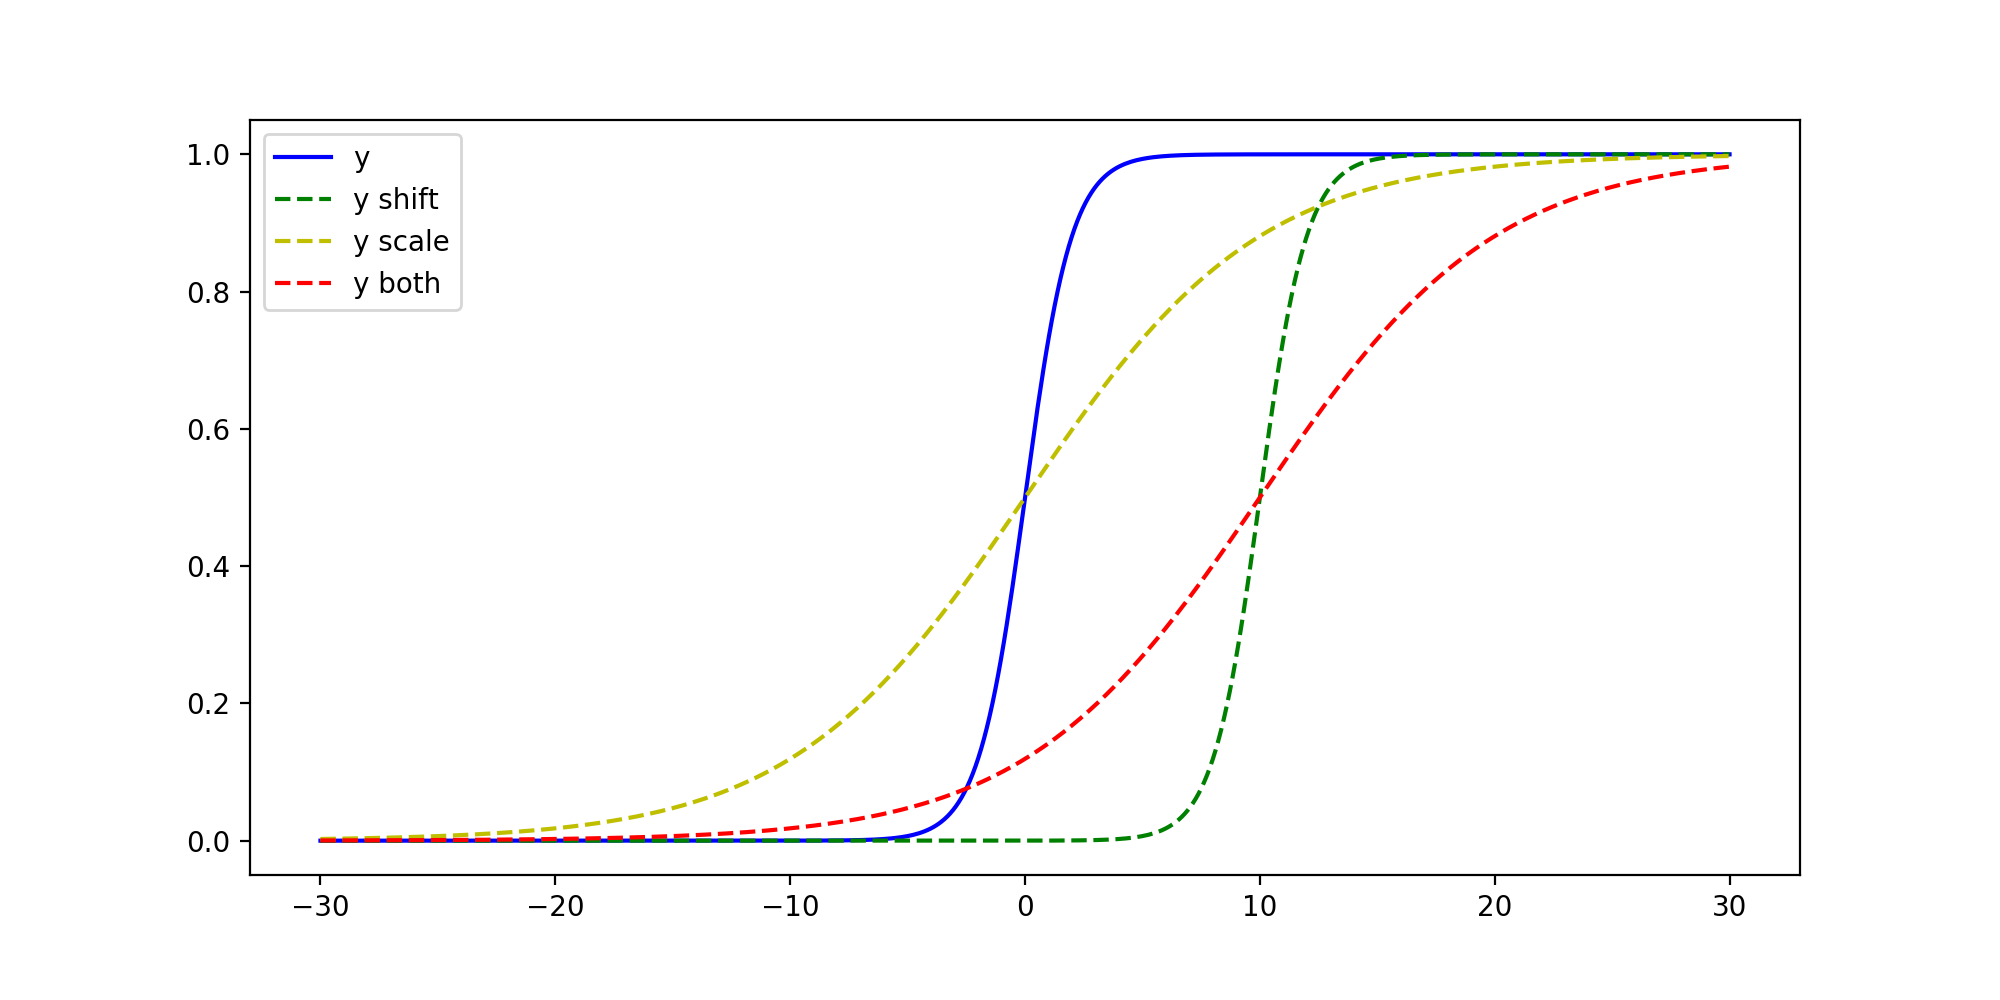
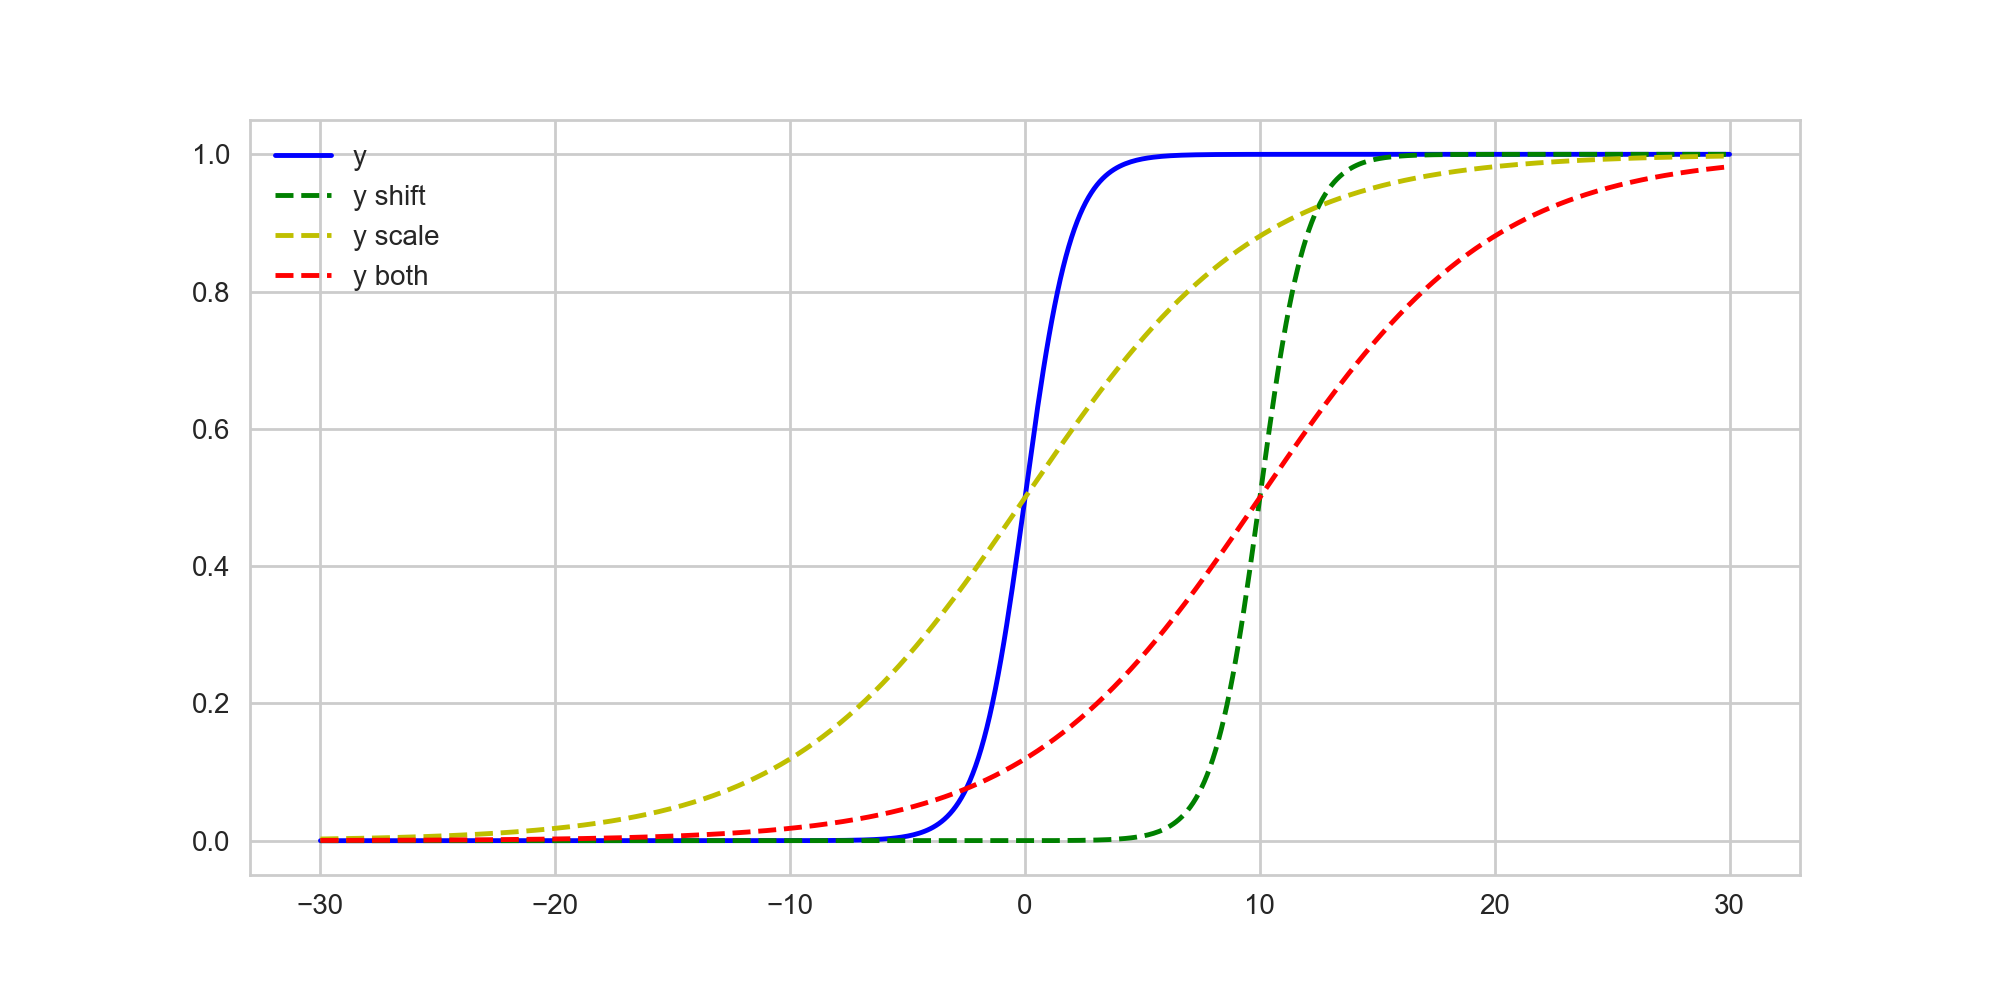
Mod requirements.txt

diff --git a/trial/sample_data.py b/trial/sample_data.py
@@ -1,6 +1,9 @@
 """Check how function shift and scale."""
 import numpy as np
 import matplotlib.pyplot as plt
+import seaborn as sns
+sns.set_style('whitegrid')
+
 # % matplotlib inline
 
 
